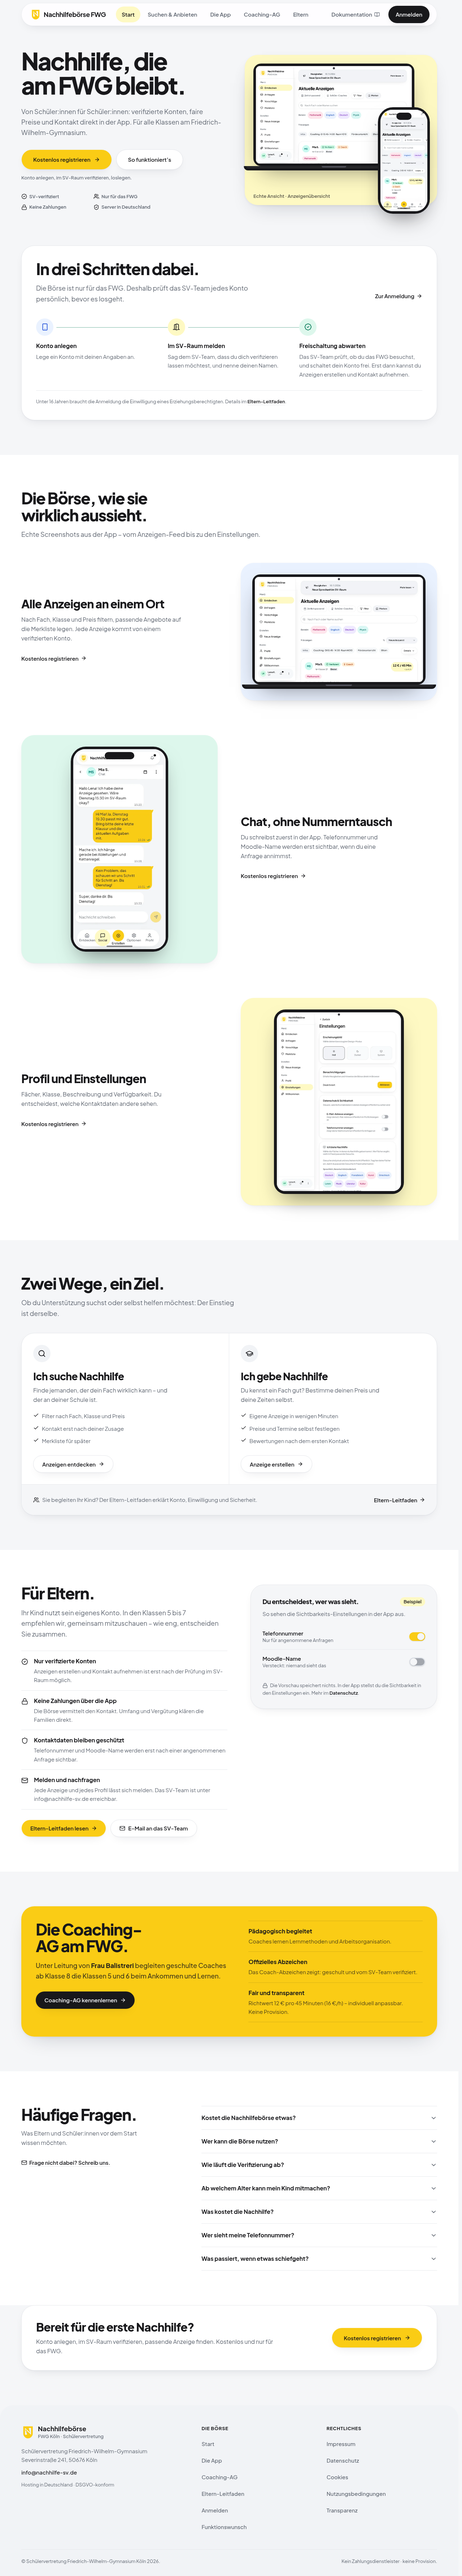
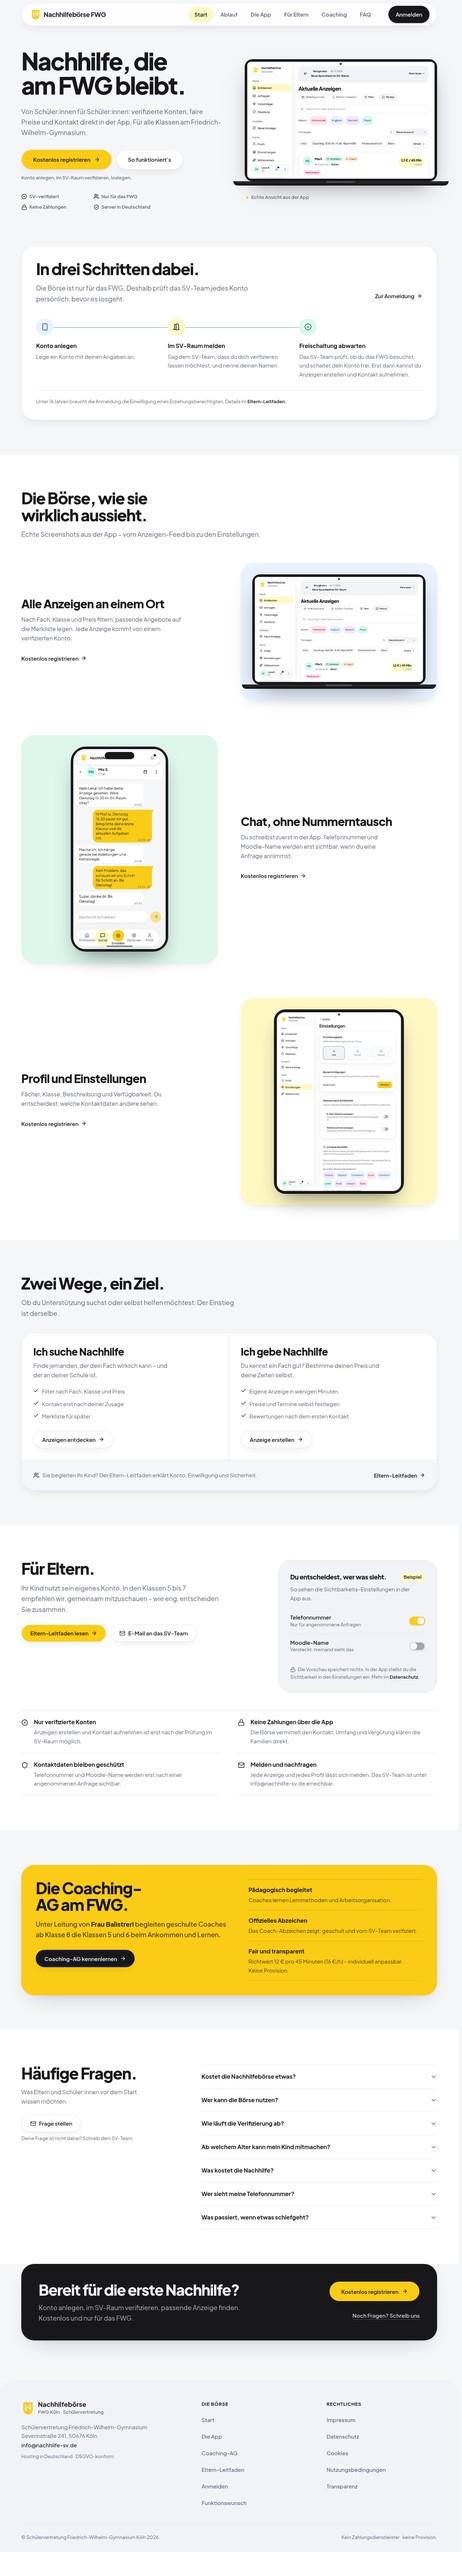
impeccable polish: update report, preview and evidence

diff --git a/docs/website-review/REPORT.md b/docs/website-review/REPORT.md
@@ -2,6 +2,7 @@
 
 Branch: `website-redesign` (Basis `ui-design-v2`, Commit `136850e`)
 Umsetzung: `6e58854` — „impeccable redesign: calm, product-first landing for the new UI“
+Polish: `42d9b68` — „impeccable polish: hero, nav order, timeline, parents, closing CTA“
 Vorschau: `http://localhost:5190/#/welcome` (siehe `PREVIEW.md`)
 
 ## 1. Produkt in einem Satz
@@ -29,10 +30,11 @@ Weg über den Eltern-Leitfaden, ohne die Hauptaktion zu verwässern.
 
 Die Startseite übernimmt die Sprache der neuen App, nicht die alte Plakatwelt:
 Plus Jakarta Sans, `#f5f6f8` Papier, weiße Karten mit 1-px-Rand, Tinte
-`#18181b`, Gelb `#facc15` nur für die primäre Aktion und die Coaching-Fläche,
-Pastell nur als Bühne hinter echten Screenshots. Volle Tokens, Typografie,
-Radien, Schatten und Komponenten: `DESIGN.md` in diesem Ordner. Die
-App-Dateien selbst wurden nicht verändert.
+`#18181b`, Gelb nur für primäre Aktionen, die Coaching-Fläche und den
+Abschluss-CTA. Pastell dient ausschließlich als Bühne hinter den drei echten
+Showcases; der Hero zeigt das Gerät frei auf dem Seitenhintergrund. Volle
+Tokens, Typografie, Radien, Schatten und Komponenten: `DESIGN.md` in diesem
+Ordner. Die App-Dateien selbst wurden nicht verändert.
 
 ## 5. Befunde vor dem Umbau
 
@@ -86,19 +88,46 @@ Sichtprüfung bei 375/768/1280/1920 px.
 
 ### Layout und Struktur
 
-- Ein Produkt-Hero statt Kartenstapel: Laptop-Feed auf gelber Fläche, Telefon
-  überlappend, Caption „Echte Ansicht · Anzeigenübersicht“.
+- Ein Produkt-Hero statt Kartenstapel: ein gerader Laptop-Feed frei auf dem
+  Seitenhintergrund, darunter die Caption „Echte Ansicht aus der App“. Kein
+  gelber Kasten, kein überlappendes Telefon.
 - „In drei Schritten dabei.“ als eine weiße Fläche mit Timeline.
 - „Die Börse, wie sie wirklich aussieht.“ mit drei Zeilen (Feed, Chat,
   Einstellungen), jede mit einer Aussage statt einer Feature-Liste.
 - „Zwei Wege, ein Ziel.“ in **einer** Fläche, getrennt durch Linien statt
   durch zwei Karten.
-- „Für Eltern.“ als Faktenliste plus echte Sichtbarkeits-Vorschau.
+- „Für Eltern.“ zweispaltig oben (Text und Aktionen links, korrekt skalierte
+  Sichtbarkeits-Vorschau rechts), darunter die vier Fakten als volle
+  Hairline-Liste.
 - Coaching als eine gelbe Fläche mit Faktenliste.
 - FAQ als sieben native `<details>`-Zeilen.
-- Eine Abschlussaktion, danach ein ruhiger 3-spaltiger Footer.
+- Eine Abschlussaktion als Tintenfläche mit gelbem CTA, danach ein ruhiger
+  3-spaltiger Footer.
+- Der Header folgt der Seitenreihenfolge (Start, Ablauf, Die App, Für Eltern,
+  Coaching, FAQ); der Entwickler-Link „Dokumentation“ ist entfernt.
 - Entfernt: Empfehlungs-/Kennzahlenblock, Funktionswunsch-Sektion, doppelter
   Showcase-Banner, Admin-Screenshot.
+
+### Polish-Runde (`42d9b68`)
+
+Nach einer Sichtprüfung des ersten Umbaus gezielt nachgeschärft:
+
+- **Hero:** gelbe Bühne und überlappendes Telefon entfernt. Ein einzelnes,
+  gerades Laptop-Bild mit Caption im Textfluss wirkt ruhiger und zeigt das
+  Produkt ohne dekorativen Rand.
+- **Header:** Navigation chronologisch zur Seite, ohne „Dokumentation“.
+- **Verifizierung:** Die Linie läuft jetzt durch die Mittelpunkte aller drei
+  Knoten und endet nicht mehr sichtbar vor dem letzten Schritt.
+- **Eltern:** Die Sichtbarkeitskarte war zu klein und stand in einem großen
+  weißen Feld. Sie sitzt jetzt oben rechts in korrekter Größe; die vier
+  Fakten stehen darunter über die volle Breite.
+- **Zwei Wege:** Icon-Kacheln über den Überschriften entfernt; die Fläche
+  beginnt direkt mit den Aussagen.
+- **FAQ:** Statt eines unterstrichenen Links gibt es einen echten
+  „Frage stellen“-Button.
+- **Abschluss:** Statt einer weißen Karte mit loser Aktion eine dunkle Fläche
+  mit klarer Hierarchie und einem einzigen gelben CTA.
+- **Footer:** E-Mail als ruhiger Inline-Link ohne künstliche Mindesthöhe.
 
 ### Typografie
 
@@ -110,7 +139,8 @@ Sichtprüfung bei 375/768/1280/1920 px.
 
 ### Farbe
 
-- Gelb nur noch an drei Stellen: Hero-Aktion, Coaching-Fläche, Abschluss-CTA.
+- Gelb nur für primäre Aktionen, die Coaching-Fläche und den Abschluss-CTA;
+  der Hero bleibt neutral und lässt das Produkt sprechen.
 - Pastellblau, -mint und -gelb ausschließlich als Bühne hinter Screenshots.
 - Violett/Rosa von der Startseite entfernt.
 - Gedämpfter Text auf `#5d646f` (4.9:1), Primärfarbe nie als Text auf Weiß.
@@ -138,7 +168,7 @@ Sichtprüfung bei 375/768/1280/1920 px.
 - Vier Screenshots als WebP: 748 KB → 167 KB (−78 %).
 - Hero lädt eager mit `fetchPriority="high"`, alles andere lazy.
 - Geräte-Rahmen sind CSS, keine Bildrahmen; kein doppeltes Chrome.
-- Seite 7.135 px statt 7.661 px (Desktop), 10.361 px statt 12.060 px (Mobil).
+- Seite 7.069 px statt 7.661 px (Desktop), 10.365 px statt 12.060 px (Mobil).
 
 ### Barrierefreiheit
 
@@ -160,10 +190,10 @@ Sichtprüfung bei 375/768/1280/1920 px.
 
 ## 7. Impeccable-Protokoll (Schritte 1–24)
 
-Alle Design-Änderungen liegen in `6e58854`. Die Schritte 4–6 und 24 wurden als
-Evaluationspässe mit Detector, Lighthouse, axe und Sichtprüfung ausgeführt; die
-Schritte 7–21 als Design-Pässe direkt im Code. Kein Schritt wurde
-stillschweigend übersprungen.
+Der Grundumbau liegt in `6e58854`, die Nachschärfung nach der Sichtprüfung in
+`42d9b68`. Die Schritte 4–6 und 24 wurden als Evaluationspässe mit Detector,
+Lighthouse, axe und Sichtprüfung ausgeführt; die Schritte 7–21 als Design-Pässe
+direkt im Code. Kein Schritt wurde stillschweigend übersprungen.
 
 | # | Aufruf / Ziel | Status | Ergebnis | Commit |
 |---|---|---|---|---|
@@ -174,23 +204,23 @@ stillschweigend übersprungen.
 | 5 | `audit the landing page` | Done | Lighthouse-Basis 53/100/100/92, axe, 320–1920-Probe; SEO- und Label-Fehler. | 6e58854 |
 | 6 | `npx impeccable detect` (Quelle + URL) | Done | URL-Basis: 3 Anti-Patterns (`ai-color-palette`, `nested-cards` ×2). | 6e58854 |
 | 7 | `redesign the landing page` | Done | Vollständiger Neuaufbau auf der v2-Sprache, Produktwahrheit und Links erhalten. | 6e58854 |
-| 8 | `layout the landing page` | Done | Ein Rhythmus, drei Showcase-Zeilen, ein Zwei-Wege-Block, ein Elternblock. | 6e58854 |
+| 8 | `layout the landing page` | Done | Ein Rhythmus, drei Showcase-Zeilen, ein Zwei-Wege-Block, ein Elternblock; im Polish Header-Reihenfolge und Elternraster korrigiert. | 6e58854, 42d9b68 |
 | 9 | `typeset the landing page` | Done | Plus Jakarta only, H1-Clamp, 60–75 Zeichen, `text-balance`/`text-pretty`. | 6e58854 |
-| 10 | `colorize the landing page` | Done | Gelb auf drei Aktionen, Pastell nur als Bildbühne, Violett entfernt. | 6e58854 |
+| 10 | `colorize the landing page` | Done | Gelb nur für Aktionen/Coaching/Abschluss, Pastell nur als Bildbühne, Violett entfernt; Hero im Polish neutralisiert. | 6e58854, 42d9b68 |
 | 11 | `quieter` — Hero, Showcase, Eltern | Done | Kartenraster zu Listen/Flächen reduziert; keine Sektion zusätzlich lauter. | 6e58854 |
 | 12 | `clarify the landing page` | Done | Neue H1, CTA-Labels, Microcopy, sieben FAQ-Antworten. | 6e58854 |
 | 13 | `distill the landing page` | Done | Stats-Block, Funktionswunsch, Doppelbanner, Admin-Screenshot entfernt. | 6e58854 |
 | 14 | `animate the landing page` | Done | Reveal pro Block, FAQ 180 ms, Reduced-Motion-Fallback. | 6e58854 |
 | 15 | `delight the hero and showcase` | Done | Ein ruhiger Moment: Timeline der Verifizierung; sonst bewusst still. | 6e58854 |
 | 16 | `overdrive the hero product preview` | Tried and rejected | Scroll-gesteuerte Geräte-Choreografie getestet und verworfen: zu laut, zu viel JS, kein Mehrwert für Eltern. | 6e58854 |
-| 17 | `adapt for mobile, tablet, large desktop` | Done | 320/375/768/1280/1920 ohne Overflow; struktureller Umbruch statt Skalierung. | 6e58854 |
+| 17 | `adapt for mobile, tablet, large desktop` | Done | 320/375/768/1280/1920 ohne Overflow; struktureller Umbruch statt Skalierung; Hero und Elternblock im Polish neu gesetzt. | 6e58854, 42d9b68 |
 | 18 | `harden the landing page` | Done | Alt-Texte, feste Seitenverhältnisse, Lazy Loading, lange Texte, Reduced Motion. | 6e58854 |
 | 19 | `onboard the path to app entry` | Done | Hero-CTA → `/login?mode=register`, drei Schritte, Einwilligung, Elternweg. | 6e58854 |
 | 20 | `optimize the landing page` | Done | WebP 748 → 167 KB, eager Hero, lazy Rest; TBT 600 → 130–260 ms. | 6e58854 |
 | 21 | `extract` — Muster | Done | `Button`, `DeviceFrame`, `VerifySteps`, `Switch`, `Reveal`, `SiteHeader` wiederverwendet; keine Duplikate. | 6e58854 |
 | 22 | `document` — finaler Stand | Done | `DESIGN.md` beschreibt die ausgelieferte Startseite und Bildherkunft. | 6e58854 |
-| 23 | `polish the landing page` | Done | Definitionslisten, Logo-Name, Kartenverschachtelung, Fokusreihenfolge. | 6e58854 |
-| 24 | `audit` + `detect` erneut | Done | Detector 0 Befunde, Lighthouse 100/100/100, ein `h1`, kein Overflow. | 6e58854 |
+| 23 | `polish the landing page` | Done | Definitionslisten, Logo-Name, Kartenverschachtelung, Fokusreihenfolge; danach Hero ohne Bühne, Header-Ordnung, durchgezogene Timeline, Elternkarte, Tinten-CTA, FAQ-Button, Footer. | 6e58854, 42d9b68 |
+| 24 | `audit` + `detect` erneut | Done | Detector 0 Befunde, Lighthouse 62/100/100/100, ein `h1`, kein Overflow, 3-px-Fokusringe. | 42d9b68 |
 
 ## 8. Detector
 
@@ -211,7 +241,7 @@ CLI 12.8.2, mobiles Standardprofil, Chromium 1254, Produktions-Preview.
 | Messung | Performance | Accessibility | Best Practices | SEO | FCP | LCP | CLS | TBT | Bytes |
 |---|---|---|---|---|---|---|---|---|---|
 | Vorher (`136850e`) | 53 | 100 | 100 | 92 | 4.9 s | 5.3 s | 0 | 600 ms | 1,3 MB |
-| Nachher | 61–65 | 100 | 100 | 100 | 4.8 s | 5.8–6.1 s | 0 | 130–260 ms | 897 KiB |
+| Nachher | 62 | 100 | 100 | 100 | 4.8 s | 5.7 s | 0 | 250 ms | 867 KiB |
 
 Der LCP wird vom app-weiten JS-Bundle dominiert und schwankt zwischen Läufen;
 die Bytes und die Blockierzeit sind klar besser, der LCP nicht. Das ist kein
@@ -230,8 +260,8 @@ Best Practices 100, SEO 100, keine Fehlschläge.
 | 1280 | 1270 | ja | 0 | 0 |
 | 1920 | 1910 | ja | 0 | 0 |
 
-Tab-Reihenfolge: Logo → Start → Suchen & Anbieten → Die App → Coaching-AG →
-Eltern → Dokumentation → Anmelden, jeweils mit sichtbarem 3-px-Fokusring.
+Tab-Reihenfolge: „Zum Inhalt springen“ → Logo → Start → Ablauf → Die App →
+Für Eltern → Coaching → FAQ → Anmelden, jeweils mit sichtbarem 3-px-Fokusring.
 FAQ-Zeilen sind per Tastatur bedienbar (native `<details>`), die zwei
 Datenschutz-Schalter haben `role="switch"` und `aria-checked`.
 
@@ -245,9 +275,8 @@ Datenschutz-Schalter haben `role="switch"` und `aria-checked`.
 3. **Echte Stimmen.** Keine Testimonials, Zahlen oder Logos vorhanden — bewusst
    nicht erfunden. Wenn das SV-Team Material freigibt, kann ein ruhiger
    Zitatblock ergänzt werden.
-4. **Geteilte Teile.** `SiteHeader` („Dokumentation“) und `CookieBanner`
-   (Zeilenlänge 93 Zeichen) gehören zur App und wurden nur minimal bzw. nicht
-   verändert.
+4. **Geteilte Teile.** Der `CookieBanner` (Zeilenlänge 93 Zeichen) gehört zur
+   App und wurde nicht verändert.
 5. **Unterseiten.** Impressum, Datenschutz, Coaching & Co. behalten ihre
    bestehenden Kopfbereiche; sie erben den geteilten Header.
 6. **Branch-Basis.** `website-redesign` sitzt auf `ui-design-v2`, weil `main`

diff --git a/docs/website-review/PREVIEW.md b/docs/website-review/PREVIEW.md
@@ -23,14 +23,18 @@ curl -s -o /dev/null -w "%{http_code}\n" http://localhost:5190/
 
 ## Was anders ist
 
-- Ruhiger, produktgeführter Hero mit einem echten Laptop-Feed und Telefon
-  statt gelbem Verlauf und erfundenen Anzeigenkarten.
+- Ruhiger, produktgeführter Hero: ein echter Laptop-Feed frei auf dem
+  Seitenhintergrund, ohne gelben Kasten und ohne überlappendes Telefon.
+- Chronologische Navigation (Start, Ablauf, Die App, Für Eltern, Coaching,
+  FAQ) ohne Entwickler-Link.
 - Drei echte Screens statt vier Showcase-Zeilen und ohne Admin-Screenshot.
 - „Zwei Wege, ein Ziel“ in einer Fläche statt drei Pastellkarten.
-- Ein Elternblock mit vier Fakten und echten Datenschutz-Schaltern.
+- Elternblock mit korrekt skalierter Sichtbarkeits-Vorschau und vier Fakten.
+- Verifizierungs-Timeline, deren Linie durch alle drei Punkte läuft.
 - Eine Coaching-Fläche statt drei verschachtelter Karten.
 - Sieben echte FAQs (Kosten, Alter, Einwilligung, Sichtbarkeit, Meldung).
-- Deutlich kürzer: 7.135 px statt 7.661 px (Desktop), 10.361 px statt
+- Abschluss als dunkle Fläche mit einem klaren CTA statt loser weißer Karte.
+- Deutlich kürzer: 7.069 px statt 7.661 px (Desktop), 10.365 px statt
   12.060 px (Mobil).
 - Screenshots als WebP: 748 KB → 167 KB.
 - Neue Meta-Daten (Canonical, OG/Twitter, JSON-LD), `robots.txt`, `sitemap.xml`.

diff --git a/docs/website-review/DESIGN.md b/docs/website-review/DESIGN.md
@@ -89,13 +89,14 @@ Die Startseite ist bewusst nur hell; die App bleibt im Systemmodus.
 
 - Papier `#f5f6f8`; Abschnitte wechseln zwischen Papier und Weiß, damit die
   Seite atmet, ohne zusätzliche Rahmen.
-- Gelb nur für die primäre Aktion im Hero, die Coaching-Fläche und den
-  Abschluss-CTA. Keine gelben Textstellen auf Weiß.
-- Produktbilder bekommen eine Pastellbühne (blau, mint, gelb) und einen
-  echten Geräterahmen; nie einen zweiten Rahmen um einen Screenshot mit
-  eingebautem Rahmen.
-- Der Header ist geteilt und bleibt unverändert in Form und Verhalten; nur der
-  zugängliche Name des Logos wurde präzisiert.
+- Gelb nur für primäre Aktionen, die Coaching-Fläche und den Abschluss-CTA.
+  Keine gelben Textstellen auf Weiß; der Hero bleibt neutral.
+- Die drei Showcase-Bilder bekommen eine Pastellbühne (blau, mint, gelb) und
+  einen echten Geräterahmen; nie einen zweiten Rahmen um einen Screenshot mit
+  eingebautem Rahmen. Der Hero zeigt das Laptop-Bild ohne Bühne.
+- Der Header ist geteilt. Seine Navigation folgt jetzt der Seitenreihenfolge
+  (Start, Ablauf, Die App, Für Eltern, Coaching, FAQ); alle Unterseiten erben
+  diese Reihenfolge. Form, Fokus und mobile Ausführung bleiben unverändert.
 
 ## Herkunft der Bilder
 

diff --git a/docs/website-review/BRIEF.md b/docs/website-review/BRIEF.md
@@ -41,8 +41,9 @@ Rollen (suchen / geben), dann die Elternfragen, dann Coaching und FAQ.
 **FIRST VIEWPORT.** H1 „Nachhilfe, die am FWG bleibt.“; ein Satz Support;
 gelbe primäre Aktion „Kostenlos registrieren“; sekundär „So funktioniert’s“;
 vier ruhige Vertrauenszeilen; rechts ein echter Laptop-Screenshot der
-Anzeigenübersicht auf gelber Fläche, darunter ein überlappendes Telefon.
-Keine erfundenen Anzeigenkarten, keine Namen, keine Zahlen.
+Anzeigenübersicht, frei auf dem Seitenhintergrund und ohne Bühne. Die
+Bildunterschrift steht im Textfluss. Keine erfundenen Anzeigenkarten, keine
+Namen, keine Zahlen.
 
 **FORM.** Code-geführt. Bestehende Tokens, `Button`, `DeviceFrame`,
 `VerifySteps`, `Reveal`, `SiteHeader` und `Switch` werden wiederverwendet.
